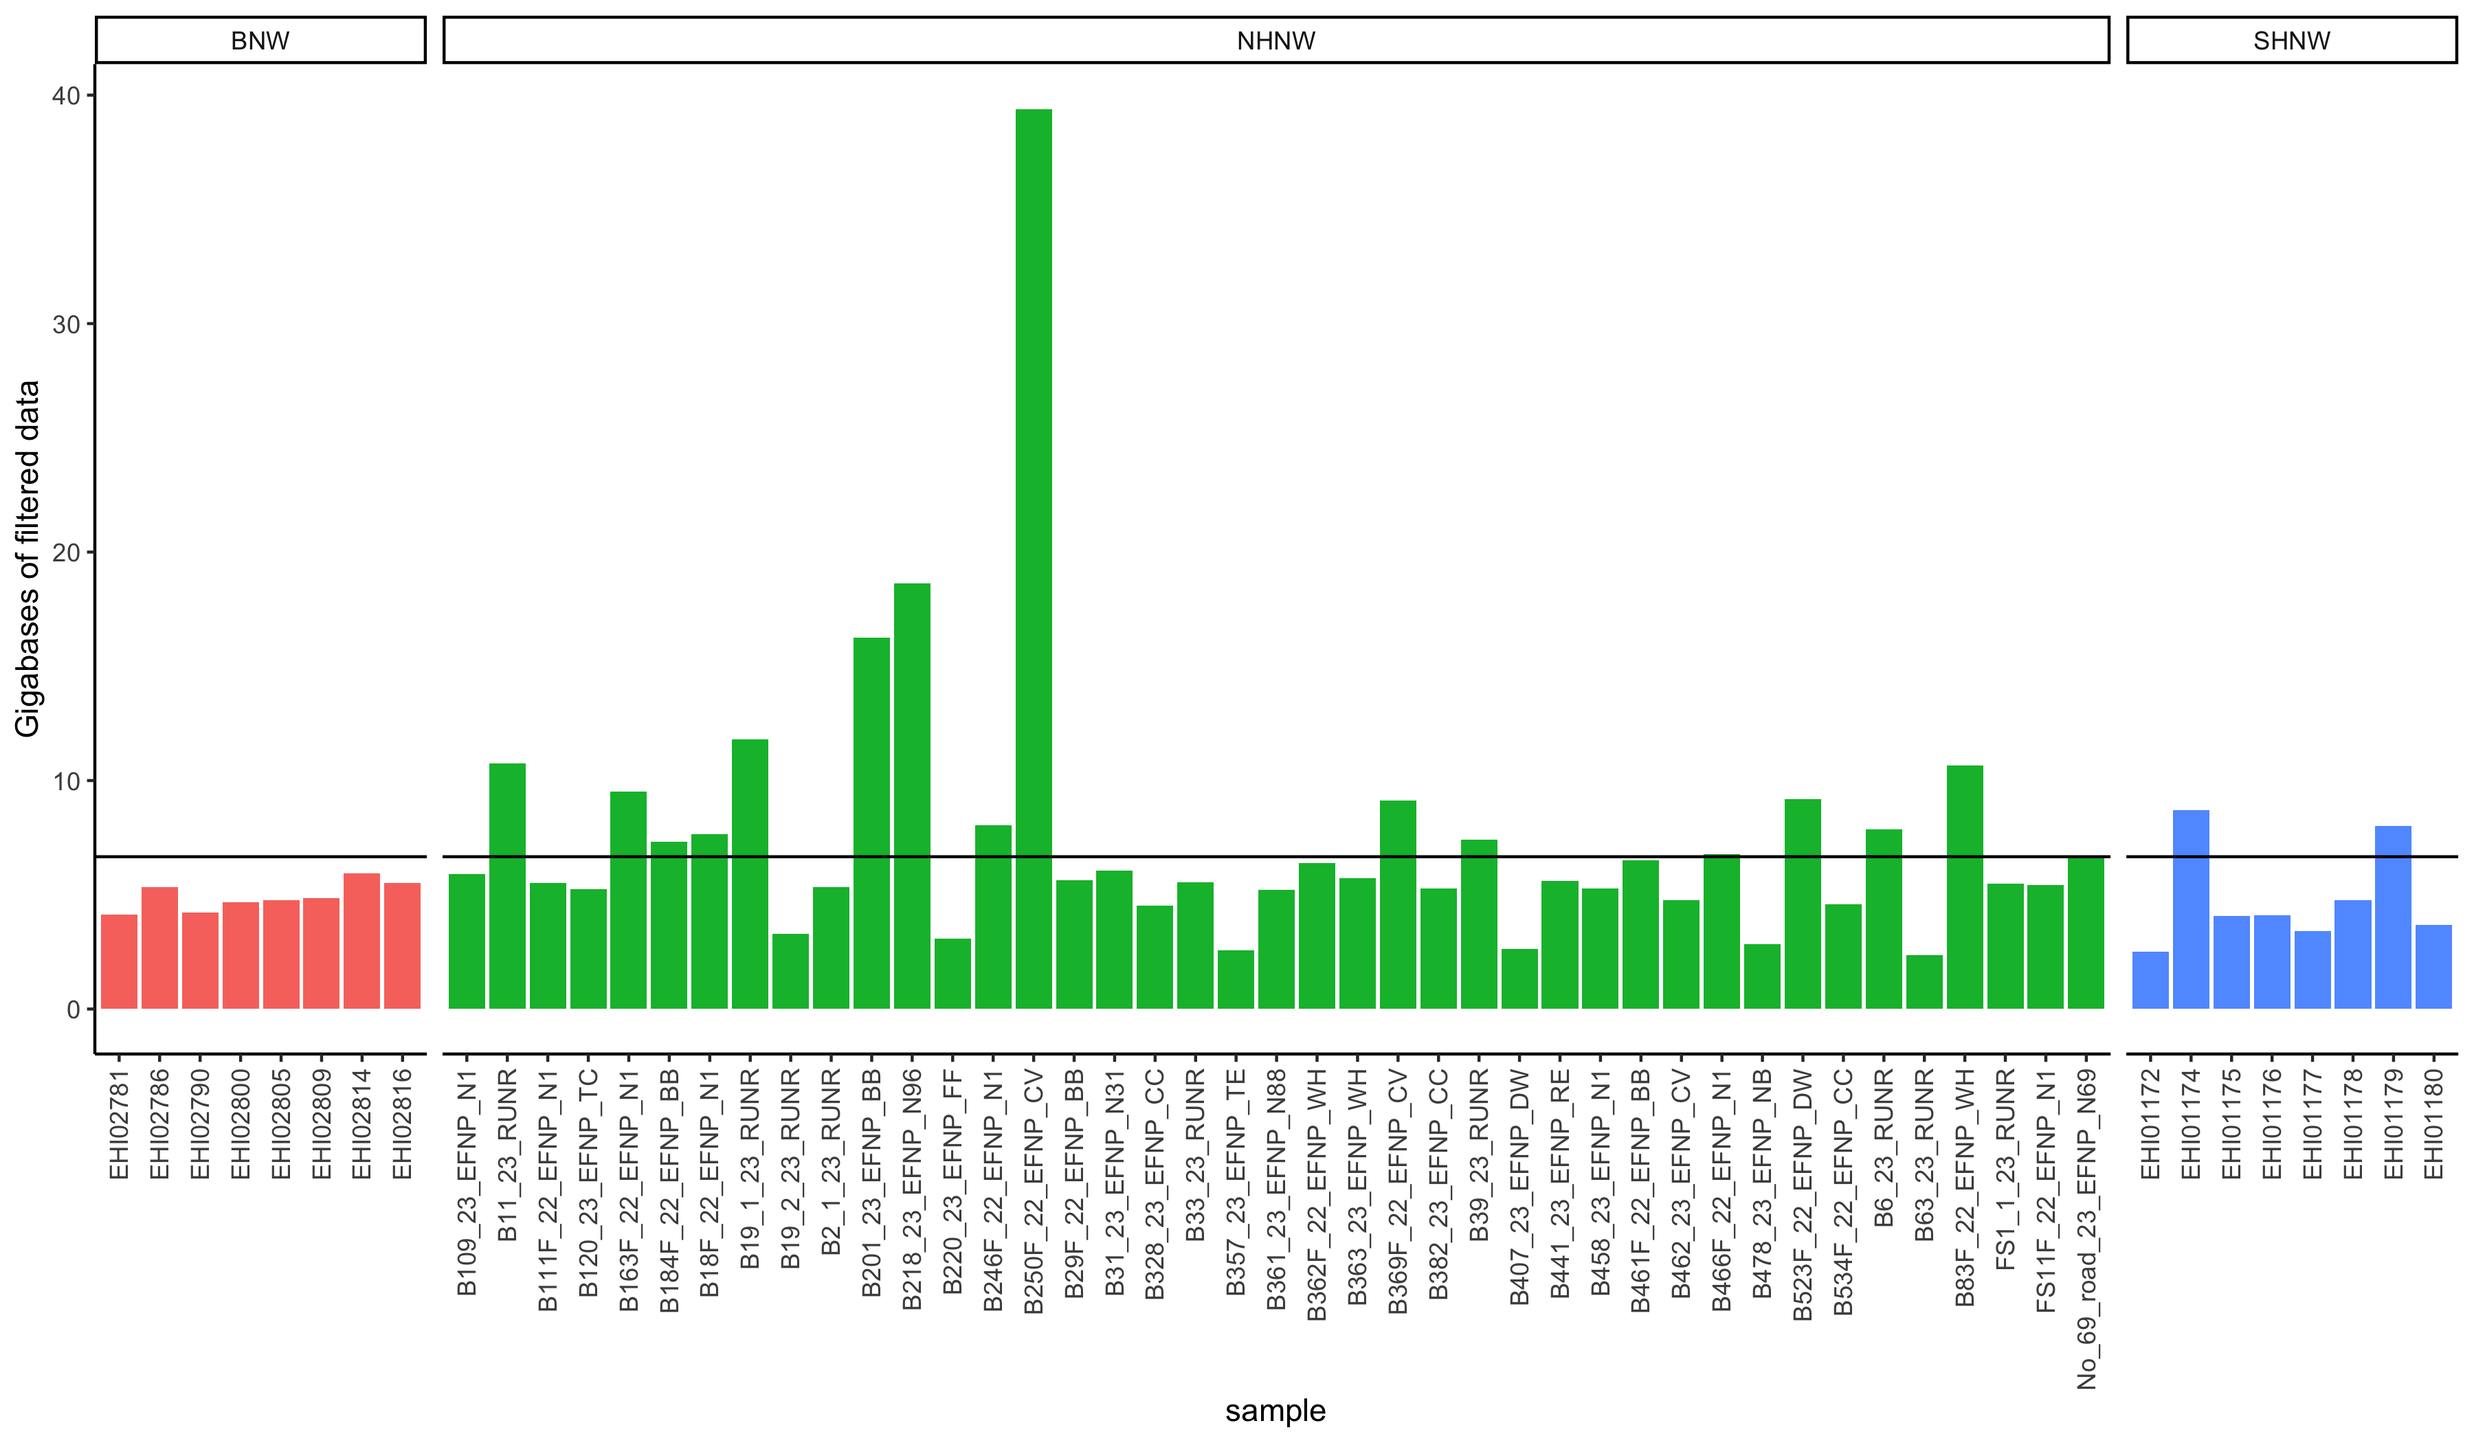
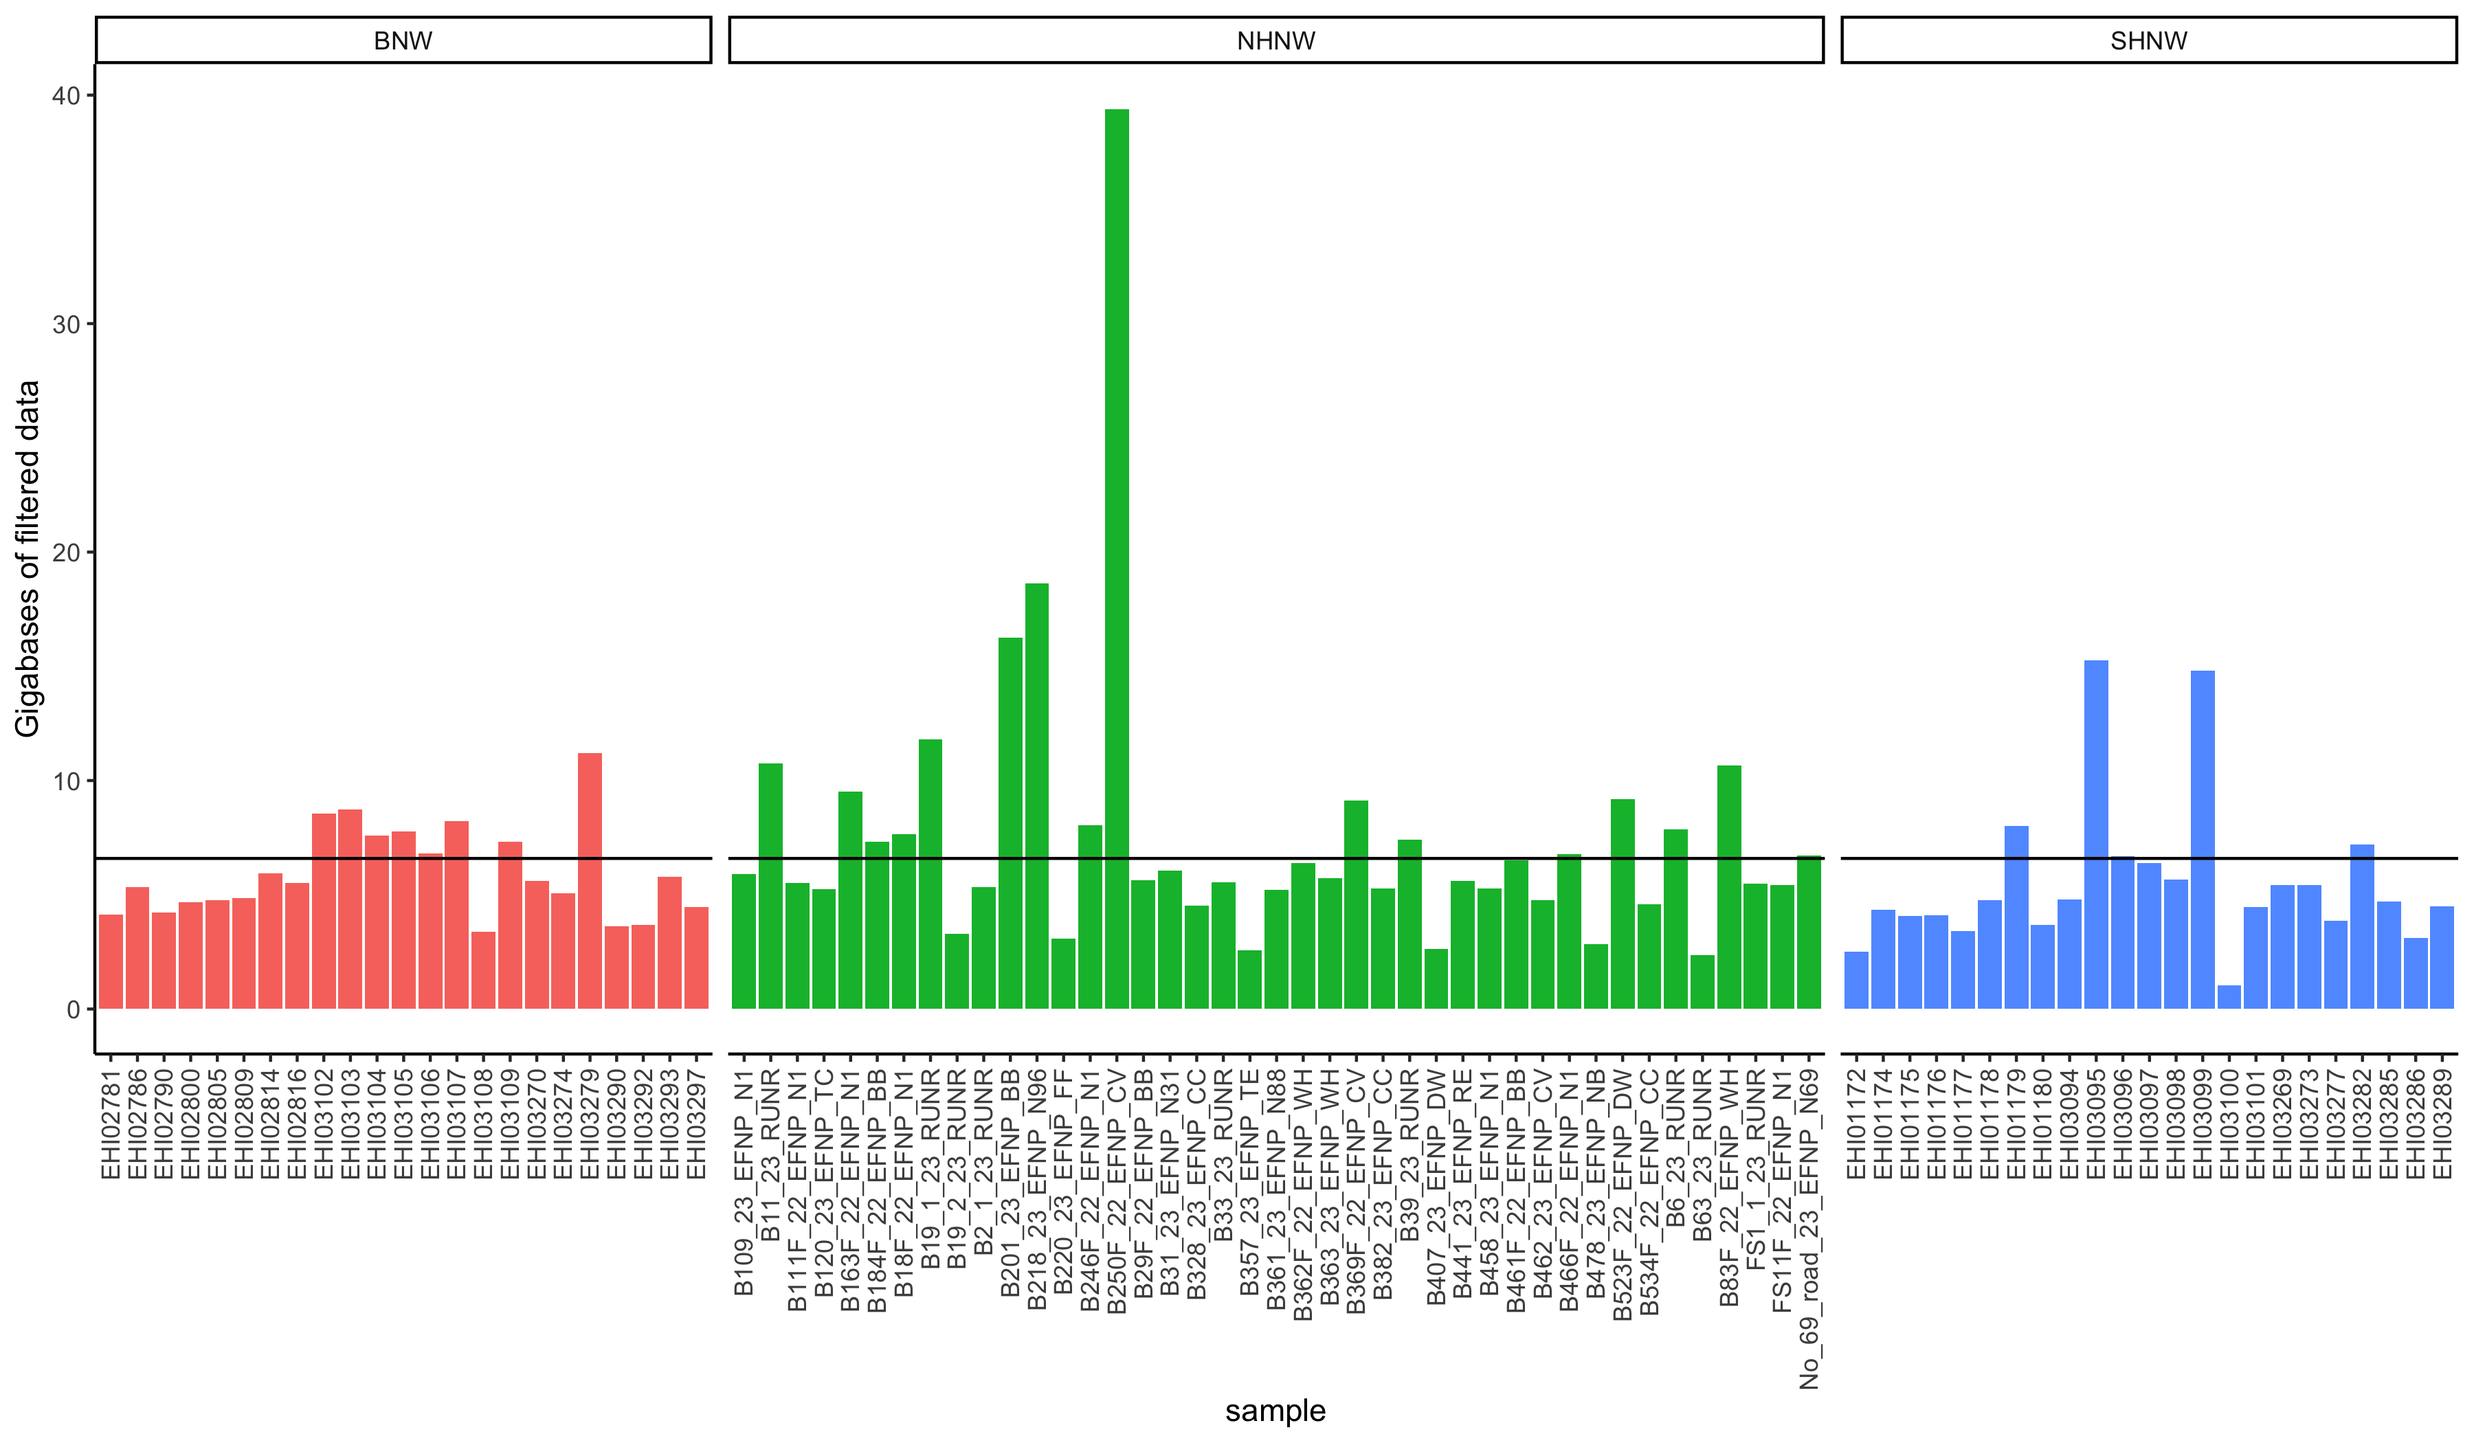
update/render qmds

diff --git a/code/reports/All_wombats_report.md b/code/reports/All_wombats_report.md
@@ -28,37 +28,32 @@ library(ggforce)
 library(ggdist)
 library(patchwork)
 
-ppr <- read_csv("../data/all_wombats/shnw_bnw_sample_info.csv") %>%
-  select(EHI_number, metagenomic_bases, host_percent, project) %>%
-  rename(sample = EHI_number, 
-         host_percentage = host_percent,
-         host_species = project) %>%
-  mutate(host_species = str_replace(host_species, 
-                                    "Lasiorhinus latifrons", 
-                                    "SHNW"),
-         host_species = str_replace(host_species, 
-                                    "Vombatus ursinus", 
-                                    "BNW"),
-         host_percentage = str_replace(host_percentage, "%", ""),
-         host_percentage = as.numeric(host_percentage) / 100)
-ppr_nhnw <- read_delim("../data/NHNW/preprocessing_report.tsv") %>%
-  select(sample, metagenomic_bases, host_percentage) %>%
-  mutate(host_species = "NHNW")
+ppr <- read_delim("data/all_wombats/metadata.tsv") %>%
+  select(EHI_plaintext, metagenomic_bases, species,
+         host_bases, singlem_fraction,
+         average_bacterial_archaeal_genome_size) %>%
+  rename(sample = EHI_plaintext,
+         average_genome_size = average_bacterial_archaeal_genome_size) %>%
+  mutate(
+    host_species = case_when(species == "Lasiorhinus latifrons" ~ "SHNW",
+                             species == "Vombatus ursinus" ~ "BNW",
+                             species == "Lasiorhinus kreffttii" ~ "NHNW"
+                             ),
+         host_percentage = host_bases / metagenomic_bases
+         ) 
 
-ppr_merged <- ppr %>%
-  bind_rows(., ppr_nhnw)
 
-mean_gbp <- mean(ppr_merged$metagenomic_bases) / 1e9
-mean_host <- mean(ppr_merged$host_percentage)
-max_host <- max(ppr_merged$host_percentage)
+mean_gbp <- mean(ppr$metagenomic_bases) / 1e9
+mean_host <- mean(ppr$host_percentage)
+max_host <- max(ppr$host_percentage)
 
-ppr_merged %>%
+ppr %>%
   ggplot(aes(y = metagenomic_bases / 1000000000, 
              x = sample,
              fill = host_species)) +
   facet_grid(~host_species, scales = "free", space = "free") +
   geom_histogram(stat = "identity") +
-  geom_hline(yintercept = mean(ppr_merged$metagenomic_bases) / 1e9) +
+  geom_hline(yintercept = mean(ppr$metagenomic_bases) / 1e9) +
   theme_classic() + 
   theme(
     axis.text.x = element_text(angle = 90, hjust = 1, vjust = 0.5),
@@ -69,9 +64,9 @@ ppr_merged %>%
 
 ![](All_wombats_report_files/figure-commonmark/unnamed-chunk-1-1.png)
 
-Horizontal line indicates the mean 6.7 Gbp of data for the samples.
-There was minimal mapping of reads to the host genome: max = 23% mean =
-1.04%.
+Horizontal line indicates the mean 6.6 Gbp of data for the samples.
+There was minimal mapping of reads to the host genome: max = 32% mean =
+1.78%.
 
 ### Coassembly report
 
@@ -79,7 +74,7 @@ Here’s a summary of the coassembly and binning of all samples together
 by host species.
 
 ``` r
-coasb <- read_delim("../data/all_wombats/AB_assembly_binning.csv") %>%
+coasb <- read_delim("data/all_wombats/AB_assembly_binning.csv") %>%
   select(EHI_number, num_bins, assembly_mapping_percent, Host) %>%
   rename(host_species = Host, sample = EHI_number) %>%
   mutate(host_species = str_replace(host_species, 
@@ -88,7 +83,8 @@ coasb <- read_delim("../data/all_wombats/AB_assembly_binning.csv") %>%
          host_species = str_replace(host_species, 
                                     "Vombatus ursinus", 
                                     "BNW"))
-coasb_nhnw <- read_delim("../data/NHNW/nhnw_coassembly_summary.tsv") %>%
+
+coasb_nhnw <- read_delim("data/NHNW/nhnw_coassembly_summary.tsv") %>%
   select(sample, num_bins, assembly_mapping_percent) %>%
   mutate(host_species = "NHNW")
 
@@ -119,7 +115,7 @@ coasb_merged %>%
 ![](All_wombats_report_files/figure-commonmark/unnamed-chunk-2-1.png)
 
 Overall the coassembly captured most of the metagenomic reads, with a
-mean mapping rate of 90.6% (max = 97.6%; min = 71.0%). Binning of these
+mean mapping rate of 91.0% (max = 97.6%; min = 81.0%). Binning of these
 contigs yielded 600, 301, and 208 metagenome assembled genomes (MAGs)
 for the NHNW, SHNW, and BNW, respectively. Keep in mind that the
 microbial fractions may be different between species (more on this
@@ -130,24 +126,23 @@ later).
 Here are some stats for the quality of the final MAGs.
 
 ``` r
-shnw_bnw_mags <- read_delim("../data/all_wombats/mag_info.csv") %>%
-  select(mag_name, completeness, contamination, GC, size, host_species) %>%
-  mutate(host_species = str_replace(host_species, 
-                                    "Lasiorhinus latifrons", 
-                                    "SHNW"),
-         host_species = str_replace(host_species, 
-                                    "Vombatus ursinus", 
-                                    "BNW"),
-         GC = str_replace(GC, "%", ""),
-         GC = as.numeric(GC) / 100) 
+shnw_mags <- read_delim("data/all_wombats/DMB0178_mag_info.tsv") %>%
+  select(genome, completeness, contamination, mag_size) %>%
+  mutate(host_species = "SHNW") 
 
-nhnw_mags <- read_delim("../data/NHNW/nhnw_metawrap_70_10_bins.stats") %>%
-  select(bin, completeness, contamination, GC, size) %>%
-  rename(mag_name = bin) %>%
+bnw_mags <- read_delim("data/all_wombats/DMB0179_mag_info.tsv") %>%
+  select(genome, completeness, contamination, mag_size) %>%
+  mutate(host_species = "BNW")
+
+
+nhnw_mags <- read_delim("data/NHNW/nhnw_metawrap_70_10_bins.stats") %>%
+  select(bin, completeness, contamination, size) %>%
+  rename(genome = bin, mag_size = size) %>%
   mutate(host_species = "NHNW")
 
-mags <- shnw_bnw_mags %>%
+mags <- shnw_mags %>%
   bind_rows(., nhnw_mags) %>%
+  bind_rows(., bnw_mags) %>%
   filter(completeness >= 70)
 
 comp <- mags %>% 
@@ -229,11 +224,12 @@ comp / cont
 
 ![](All_wombats_report_files/figure-commonmark/unnamed-chunk-3-1.png)
 
-Most MAGs are of decent quality.
+Most MAGs are of decent quality. Note that this is before dereplication
+of all MAGs (host species) together.
 
 ``` r
 mags %>%
-  ggplot(aes(x = host_species, y = size / 1000000)) +
+  ggplot(aes(x = host_species, y = mag_size / 1000000)) +
   geom_jitter(width = 0.1, height = 0, alpha = 0.5) +
   stat_halfeye(
     adjust = .5,
@@ -255,8 +251,8 @@ mags %>%
 ![](All_wombats_report_files/figure-commonmark/unnamed-chunk-4-1.png)
 
 The mean MAG size is ~2 Mbp. This is pretty low, but cool, as it
-suggests that most of these bacteria probably can’t live outside the
-NHNW gut!
+suggests that many of these bacteria probably can’t live outside the
+wombat gut!
 
 ### How well did we capture the metagenomic samples?
 
@@ -269,42 +265,17 @@ describing the method:
 <https://www.biorxiv.org/content/10.1101/2024.05.16.594470v1>
 
 ``` r
-shnw_bnw_smf <- read_csv("../data/all_wombats/shnw_bnw_sample_info.csv") %>%
-  select(EHI_number, singlem_fraction, project) %>%
-  rename(host_species = project, sample = EHI_number) %>%
-  mutate(host_species = str_replace(host_species, 
-                                    "Lasiorhinus latifrons", 
-                                    "SHNW"),
-         host_species = str_replace(host_species, 
-                                    "Vombatus ursinus", 
-                                    "BNW"))
+smf <- ppr %>%
+  select(sample, singlem_fraction, host_species)
 
-shnw_bnw_mapping <- read_delim("../data/all_wombats/mag_mapping_rate.txt") %>%
+damr <- read_delim("data/all_wombats/mapping_rate.txt") %>%
   pivot_longer(., !Genome) %>%
   filter(Genome == "unmapped") %>% 
   mutate(name = str_replace_all(name, " Relative Abundance \\(%\\)", ""),
            mapped = 100 - value) %>% 
-  inner_join(., shnw_bnw_smf, by = join_by(name == sample)) %>% 
+  inner_join(., smf, by = join_by(name == sample)) %>% 
   mutate(DAMR = mapped / as.numeric(singlem_fraction))
 
-
-smf_nhnw <- read_delim("../data/NHNW/smf_nhnw.tsv") %>%
-  mutate(sample = str_replace_all(sample, "_M_1", "")) %>%
-  rename(singlem_fraction = read_fraction) %>%
-  mutate(singlem_fraction = as.numeric(singlem_fraction))
-
-mag_mapping_nhnw <- read_delim("../data/NHNW/mag_mapping_rate.txt") %>%
-  pivot_longer(., !Genome) %>%
-  filter(Genome == "unmapped") %>%
-    mutate(name = str_replace_all(name, " Relative Abundance \\(%\\)", ""),
-           mapped = 100 - value,
-           host_species = "NHNW") %>%
-  inner_join(., smf_nhnw, by = join_by(name == sample)) %>% 
-  mutate(DAMR = mapped / as.numeric(singlem_fraction)) %>%
-  select(Genome, name, value, mapped, singlem_fraction, host_species, DAMR)
-
-damr <- shnw_bnw_mapping %>%
-  bind_rows(., mag_mapping_nhnw)
 
 mean_damr <- percent(mean(damr$DAMR), accuracy = 0.1)
 
@@ -331,6 +302,7 @@ damr %>%
 
 ![](All_wombats_report_files/figure-commonmark/unnamed-chunk-5-1.png)
 
-Overall, we’ve captured most of the prokaryote DNA in the samples (mean
-77.2%). This is pretty decent considering the complexity of these
-microbial communities!
+Overall, we’ve captured a good amount of the prokaryote DNA in the
+samples (mean 77.3%). This is pretty decent considering the complexity
+of these microbial communities! Note that the BNW is on average lower
+~64% compared to the HNWs ~82%.

diff --git a/code/reports/shared_genome.md b/code/reports/shared_genome.md
@@ -1,32 +1,27 @@
----
-title: "Finding shared genomes"
-author: "Raphael Eisenhofer"
-format:
-  gfm:
-    fig-width: 12
-    fig-height: 7
-    fig-dpi: 300
-  html:
-    fig-width: 12
-    fig-height: 7
-    fig-dpi: 300  
-editor: visual
----
+# Finding shared genomes
+Raphael Eisenhofer
 
 ## Finding shared genomes
 
-Foray into identifying bacterial species/genomes that are shared among the three host species of wombats. *Vombatus ursinus* (bare-nosed wombat; **BNW**) appears to share a common ancestor \~6-8 million years ago (MYA) with *Lasiorhinus latifrons* (southern hairy-nosed wombat; **SHNW**) \[Mitchell et al. 2014; dated mitochondrial tree\]. *Lasiorhinus krefftii* (northern hairy-nosed wombat; **NHNW**) is more closer related to the **SHNW**, but I couldn't find any published data with date estimates \[Colin/Jeremy, do you have an estimate?\], but I'm guessing that it's \< 2 MYA.
+Foray into identifying bacterial species/genomes that are shared among
+the three host species of wombats. *Vombatus ursinus* (bare-nosed
+wombat; **BNW**) appears to share a common ancestor ~6-8 million years
+ago (MYA) with *Lasiorhinus latifrons* (southern hairy-nosed wombat;
+**SHNW**) \[Mitchell et al. 2014; dated mitochondrial tree\].
+*Lasiorhinus krefftii* (northern hairy-nosed wombat; **NHNW**) is more
+closer related to the **SHNW**, but I couldn’t find any published data
+with date estimates \[Colin/Jeremy, do you have an estimate?\], but I’m
+guessing that it’s \< 2 MYA.
 
-Here I'll use data from dRep: the dereplication of bacterial genomes using MASH and ANImf to identify candidate bacterial genomes that show signs (high ANI; average nucleotide identity) of being present at the **TMRCA** (time to most recent common ancestor) for 1) all wombats, and 2) hairy-nosed wombats.
+Here I’ll use data from dRep: the dereplication of bacterial genomes
+using MASH and ANImf to identify candidate bacterial genomes that show
+signs (high ANI; average nucleotide identity) of being present at the
+**TMRCA** (time to most recent common ancestor) for 1) all wombats, and
+2) hairy-nosed wombats.
 
 ## Load packages & data
 
-```{r, setup, include=FALSE}
-knitr::opts_knit$set(root.dir = '../../')
-```
-
-```{r}
-#| warning: false
+``` r
 library(tidyverse)
 library(ggplot2)
 
@@ -158,7 +153,16 @@ n_all_three_comparisons <- nrow(all_three_species) / 3
 
 all_three_species %>% 
   summarise(mean_ani = mean(ani), .by = comparison)
+```
 
+    # A tibble: 3 × 2
+      comparison mean_ani
+      <chr>         <dbl>
+    1 SHNW:BNW      0.943
+    2 NHNW:BNW      0.936
+    3 SHNW:NHNW     0.964
+
+``` r
 #make a plot showing this info (ID for future ref)
 #also look at genome characteristics (e.g. taxonomy, size, gc, etc.)
 
@@ -172,8 +176,11 @@ all_three_species %>%
   theme_minimal() +
   coord_cartesian(ylim = c(85, 100)) +
   labs(x = "MAG cluster", y = "Average Nucleotide Identity (%)")
-  
+```
 
+![](shared_genome_files/figure-commonmark/unnamed-chunk-1-1.png)
+
+``` r
 all_three_species %>%
   ggplot(aes(
     x = as.character(primary_cluster), 
@@ -184,19 +191,30 @@ all_three_species %>%
   theme_minimal() +
   coord_cartesian(ylim = c(85, 100)) +
   labs(x = "MAG cluster", y = "Average Nucleotide Identity (%)")
-  
-  
-
 ```
+
+![](shared_genome_files/figure-commonmark/unnamed-chunk-1-2.png)
 
 ### Playing around
 
-```{r}
-
+``` r
 library(tidyverse)
 library(ggdendro)
 library(scales)
+```
 
+
+    Attaching package: 'scales'
+
+    The following object is masked from 'package:purrr':
+
+        discard
+
+    The following object is masked from 'package:readr':
+
+        col_factor
+
+``` r
 plot_MASH_dendrogram <- function(Mdb, Cdb, threshold = FALSE, plot_dir = NULL) {
   # Set ggplot theme
   theme_set(theme_minimal() +
